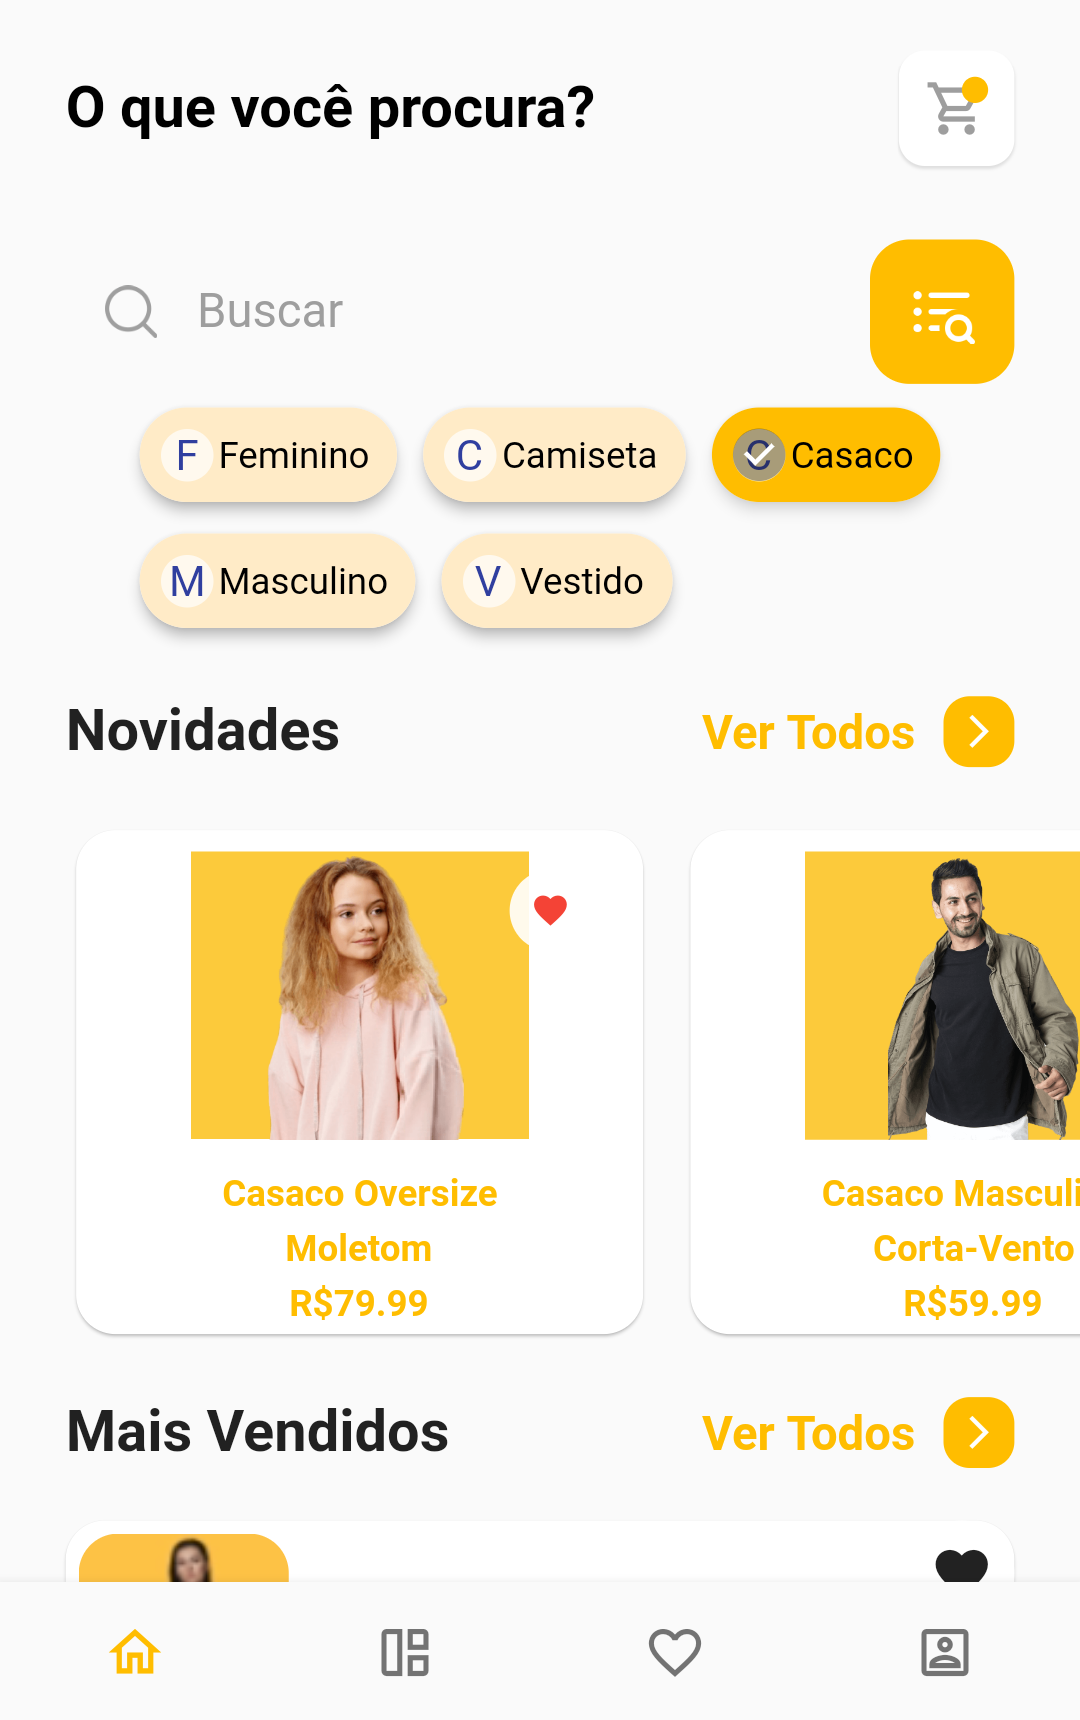
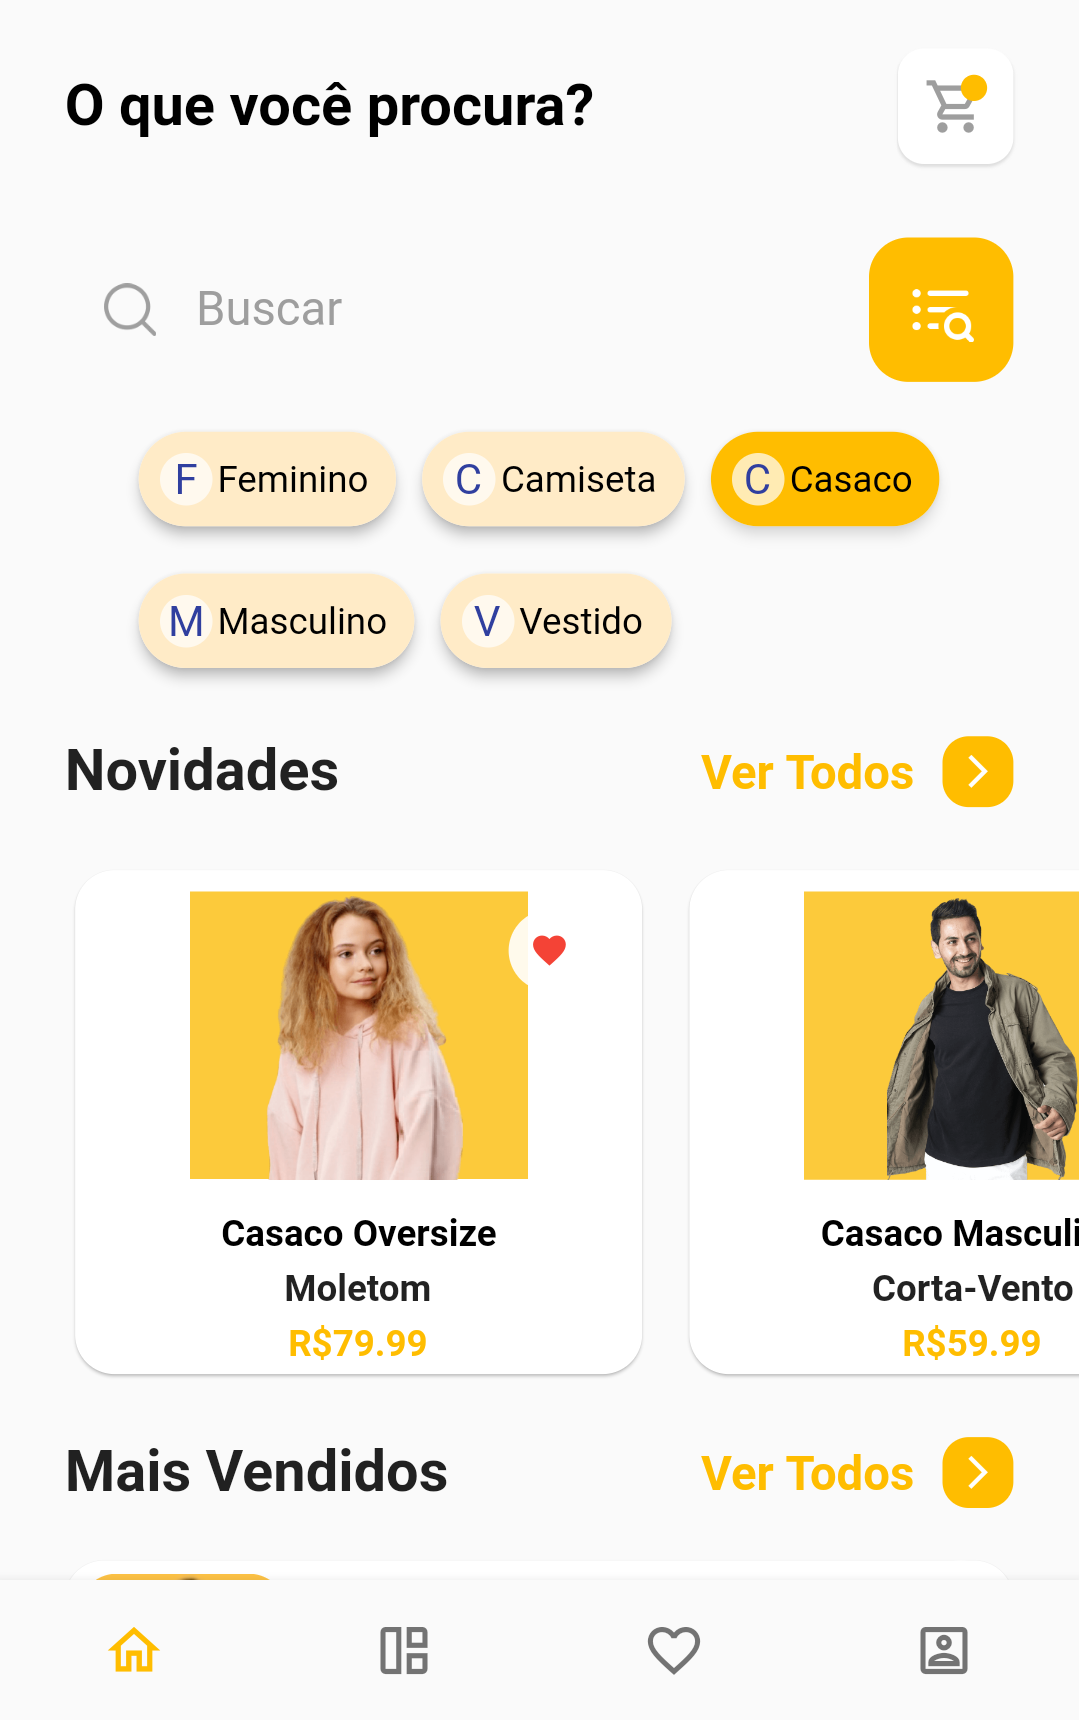
Ajustes de posicionamento e cor na home do app_loja_roupas

diff --git a/lib/app_loja_roupas/view/home/widgets/search_input.dart b/lib/app_loja_roupas/view/home/widgets/search_input.dart
@@ -33,6 +33,7 @@ class _SearchInputState extends State<SearchInput> {
       padding: EdgeInsets.all(8.0),
       selected: filters.contains(label),
       selectedColor: kPrimaryColor,
+      showCheckmark: false,
       onSelected: (bool selected) {
         setState(() {
           if (selected) {
@@ -48,6 +49,7 @@ class _SearchInputState extends State<SearchInput> {
   chipList() {
     return Wrap(
         spacing: 10.0,
+        runSpacing: 6.0,
         children: tagList.map((e) => _buildChip(e)).toList());
   }
 
@@ -90,6 +92,7 @@ class _SearchInputState extends State<SearchInput> {
               )
             ],
           ),
+          SizedBox(height: 10.0,),
           chipList()
         ],
       ),

diff --git a/lib/app_loja_roupas/view/home/widgets/clothes_item.dart b/lib/app_loja_roupas/view/home/widgets/clothes_item.dart
@@ -54,10 +54,10 @@ class ClothesItem extends StatelessWidget {
                 ],
               ),
               Text(clothes.title!, style: TextStyle(
-                fontWeight: FontWeight.bold, height: 1.5, color: kPrimaryColor
+                fontWeight: FontWeight.bold, height: 1.5, color: Colors.black
               )),
               Text(clothes.subtitle!, style: TextStyle(
-                  fontWeight: FontWeight.bold, height: 1.5, color: kPrimaryColor
+                  fontWeight: FontWeight.bold, height: 1.5, color: Colors.black87
               )),
               Text(clothes.price!, style: TextStyle(
                   fontWeight: FontWeight.bold, height: 1.5, color: kPrimaryColor
